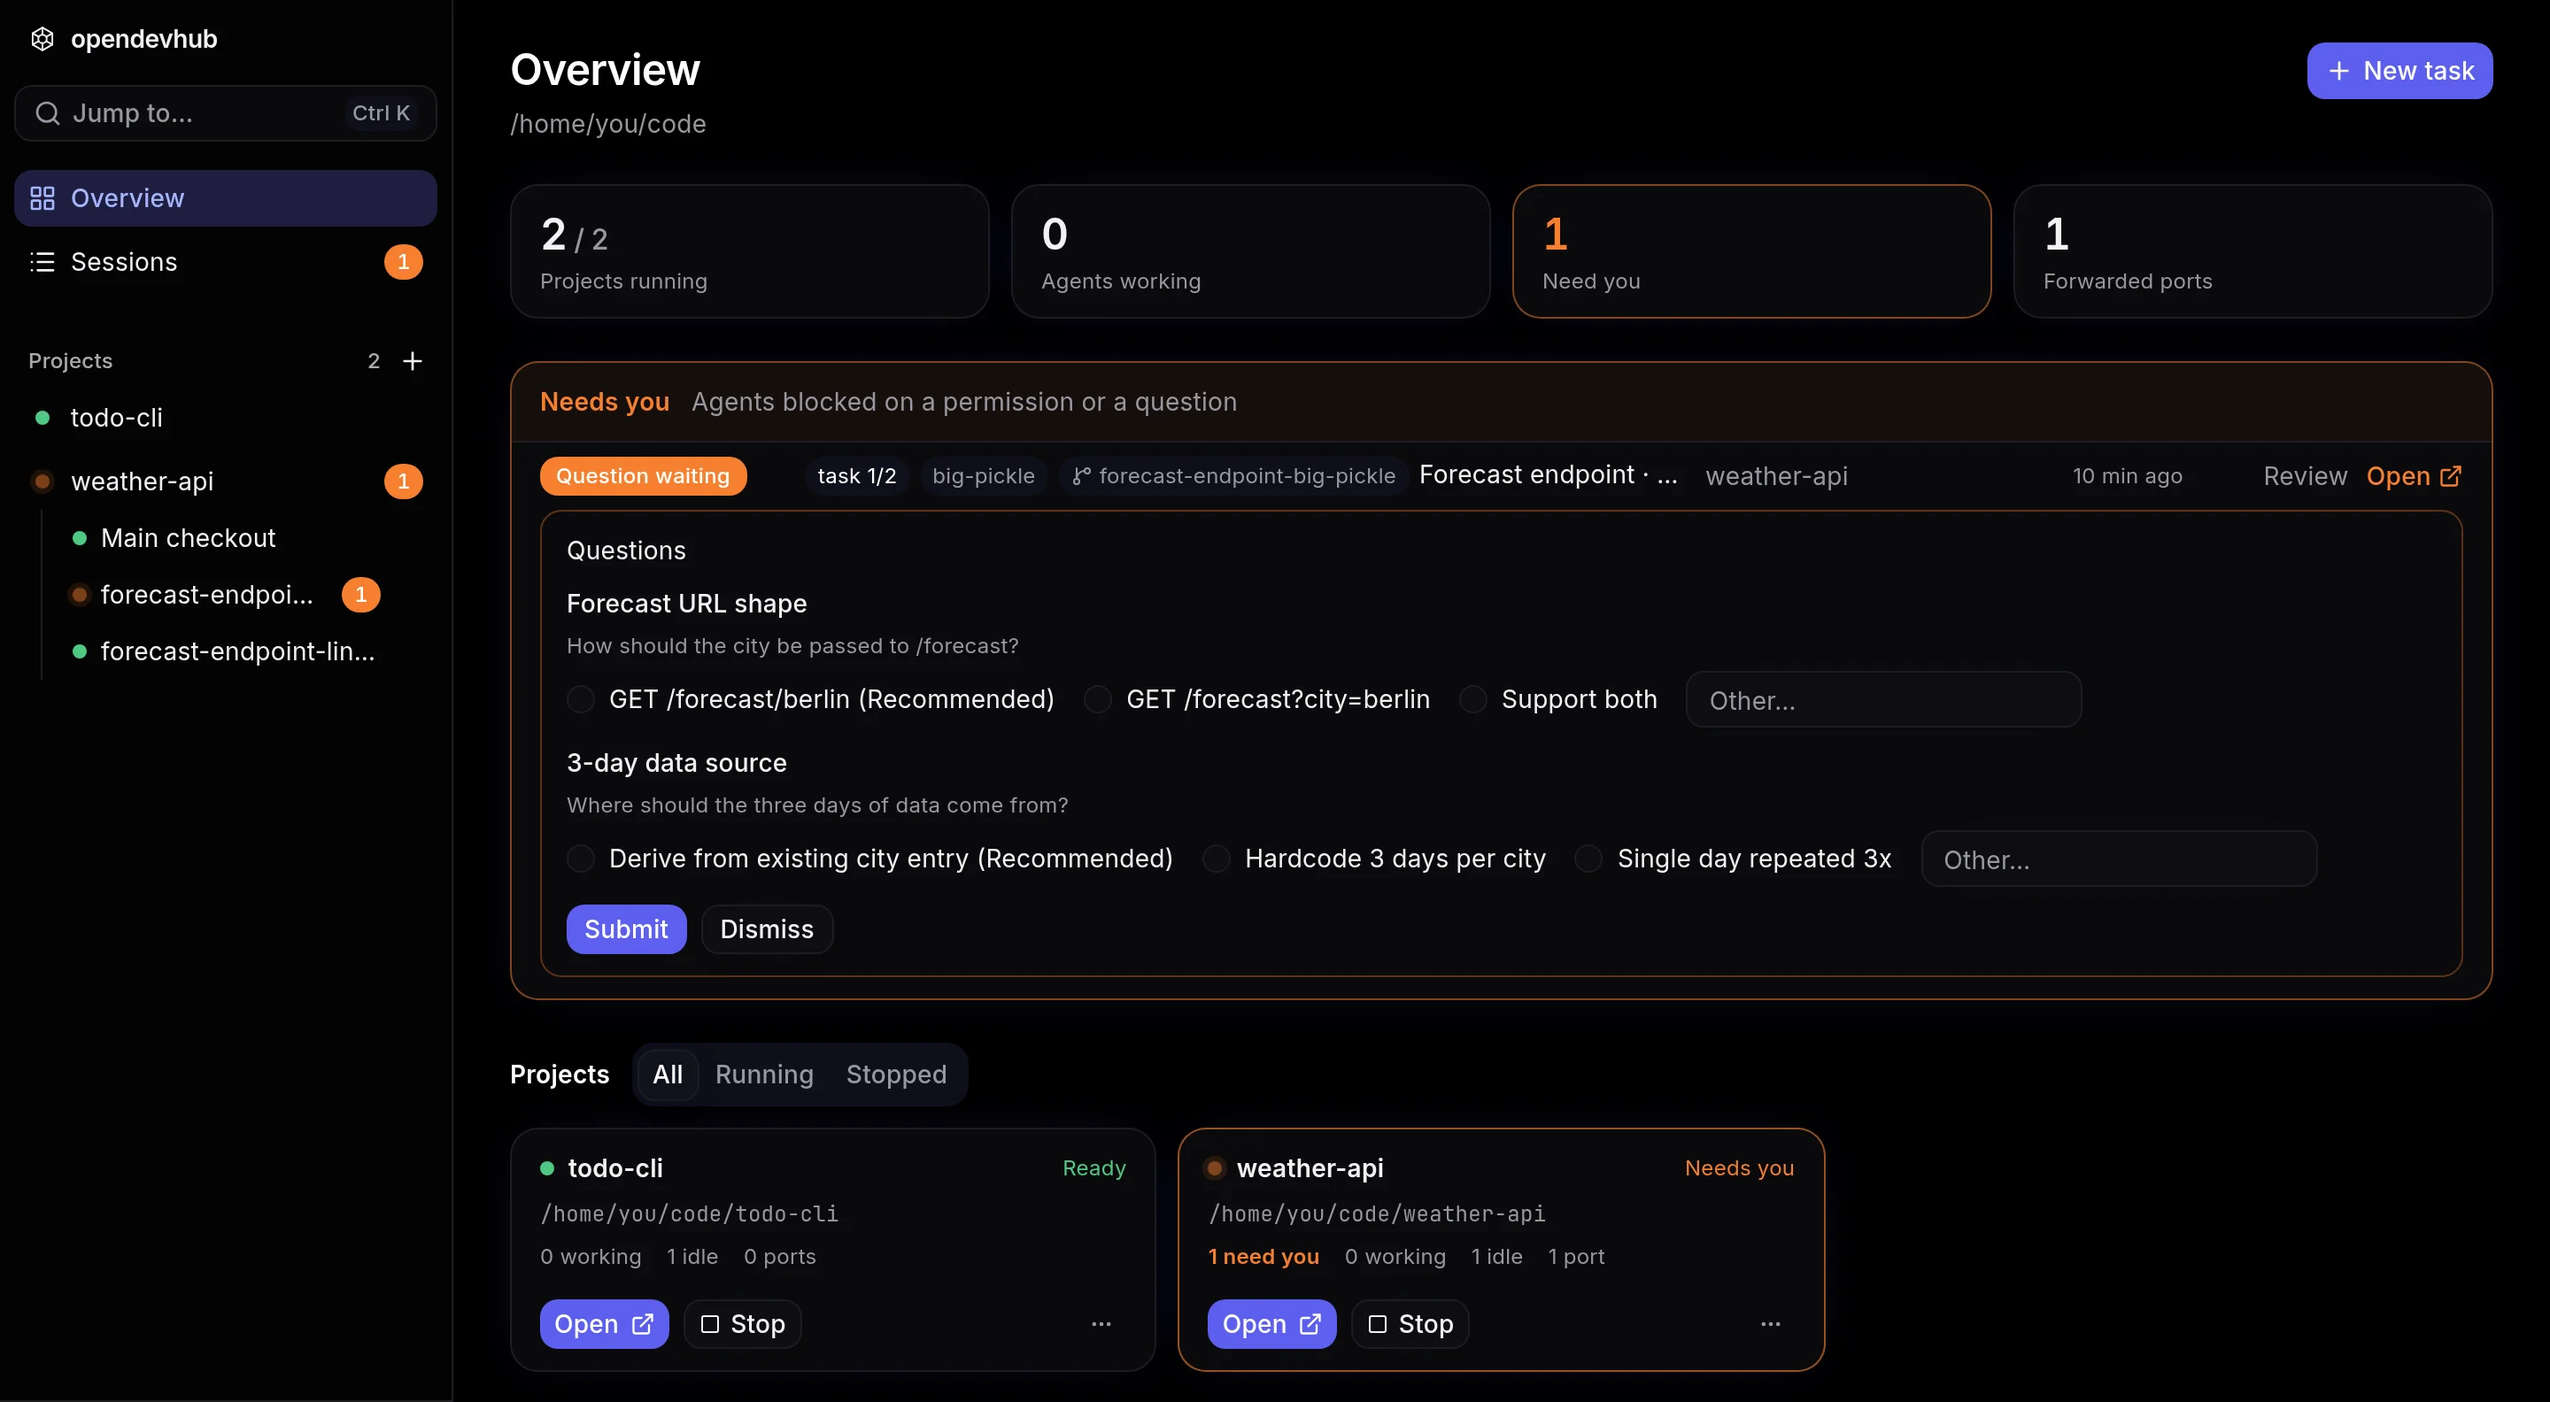
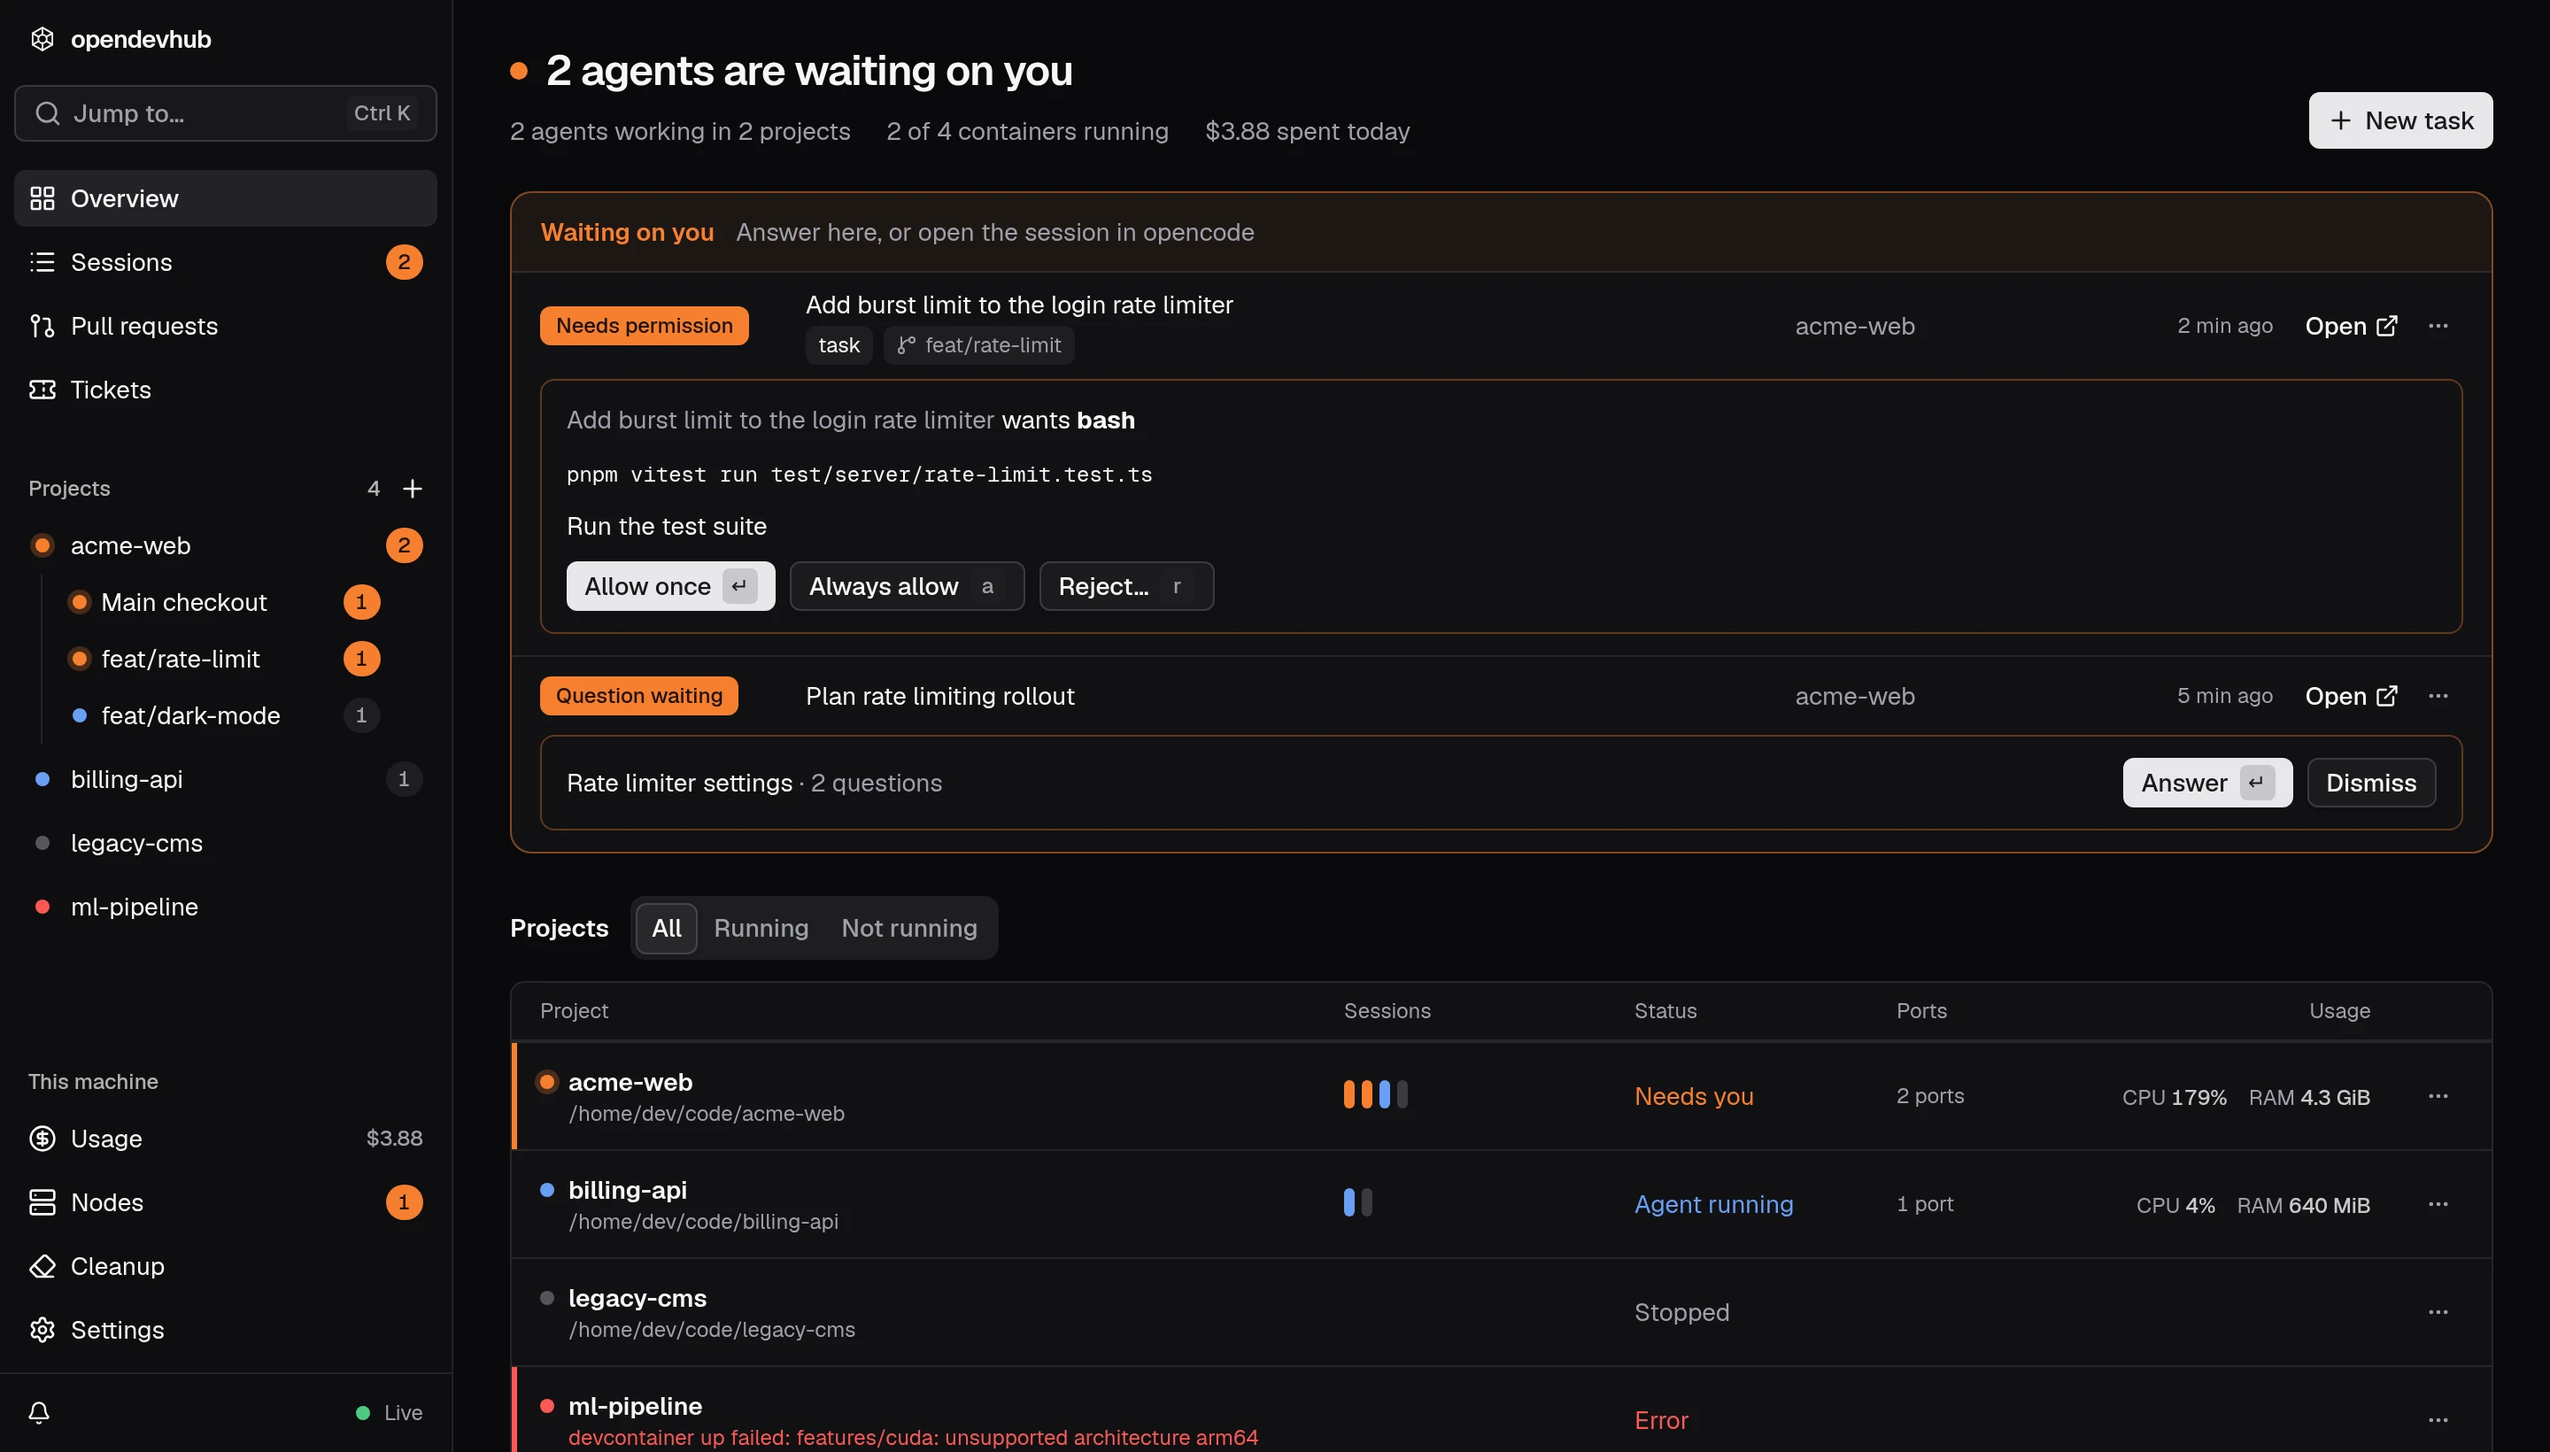
docs: render screenshots from Storybook stories
`pnpm screenshots` starts Storybook, captures each page or dialog story in
headless Chrome (dark, 2x) and writes webp files into the docs' images folder.
Redoes the existing shots from the mocked fixtures and adds Forgejo, Jira and
Nodes screenshots to their docs pages.

diff --git a/apps/opendevhub/scripts/screenshots.ts b/apps/opendevhub/scripts/screenshots.ts
@@ -1,0 +1,249 @@
+/**
+ * Renders the docs and README screenshots from Storybook stories, so they show the mocked fixtures instead of
+ * whatever happens to be on someone's machine.
+ *
+ *   pnpm screenshots                 starts Storybook on a spare port, captures every shot, stops it
+ *   pnpm screenshots overview review captures only the named shots
+ *
+ * STORYBOOK_URL reuses a Storybook that is already running; CHROME_PATH picks the Chromium to drive.
+ */
+import { spawn } from "node:child_process";
+import type { ChildProcess } from "node:child_process";
+import { writeFile } from "node:fs/promises";
+import { fileURLToPath } from "node:url";
+
+import { chromium } from "playwright-core";
+import type { Page } from "playwright-core";
+
+interface Shot {
+  /** File name under the docs' images folder, without the extension. */
+  name: string;
+  /** Storybook story id, e.g. "pages-overview--default". */
+  story: string;
+  /** Selector for content that only shows once the story's mocked data has loaded. */
+  ready: string;
+  /** Captures just this element instead of the viewport. */
+  clip?: string;
+  /** Viewport height for this shot, so a page is cut where its content ends. */
+  height?: number;
+  /** Interactions to run once the story is ready. */
+  prepare?: (page: Page) => Promise<void>;
+}
+
+const shots: Shot[] = [
+  {
+    name: "overview",
+    ready: "text=Waiting on you",
+    story: "pages-overview--default",
+  },
+  {
+    height: 980,
+    name: "worktrees",
+    ready: "text=New worktree",
+    story: "pages-project--overview",
+  },
+  {
+    height: 660,
+    name: "task-variants",
+    ready: "text=Compare variants",
+    story: "pages-project--task",
+  },
+  {
+    name: "review",
+    ready: "text=MAX_BURST",
+    story: "pages-checkout--review",
+  },
+  {
+    height: 548,
+    name: "forgejo-inbox",
+    ready: "text=Last refreshed",
+    story: "pages-forgejo--pull-requests",
+  },
+  {
+    height: 1000,
+    name: "forgejo-pull-request",
+    ready: "text=Base branch",
+    story: "pages-forgejo--pull-request",
+  },
+  {
+    height: 520,
+    name: "jira-tickets",
+    ready: "text=1–4 of 4",
+    story: "pages-jira--tickets",
+  },
+  {
+    height: 640,
+    name: "jira-ticket",
+    ready: "text=Acceptance criteria",
+    story: "pages-jira--ticket",
+  },
+  {
+    height: 580,
+    name: "nodes",
+    ready: "text=Connection timed out",
+    story: "pages-nodes--default",
+  },
+  {
+    clip: "[role=dialog]",
+    name: "new-task",
+    prepare: async (page) => {
+      await page
+        .locator("[role=dialog] textarea")
+        .fill(
+          "Add a burst limit to the login rate limiter: reject more than 20 requests a minute per IP.\n\nCover it with a test in test/server/rate-limit.test.ts."
+        );
+      await page
+        .getByRole("button", { name: "Compare with another model" })
+        .click();
+      await page.getByRole("combobox", { name: "Model 2" }).click();
+      await page.getByRole("option", { name: "GPT-6" }).click();
+    },
+    ready: "[role=dialog] textarea",
+    story: "components-newtaskdialog--default",
+  },
+  {
+    clip: "[role=dialog]",
+    name: "publish",
+    ready: "[role=dialog]",
+    story: "components-publishdialog--default",
+  },
+  {
+    clip: "[role=dialog]",
+    name: "add-project",
+    prepare: async (page) => {
+      await page
+        .getByRole("option", { name: /design-system/u })
+        .first()
+        .click();
+    },
+    ready: "[role=dialog] [role=option]",
+    story: "components-addprojectdialog--default",
+  },
+];
+
+const VIEWPORT = { height: 820, width: 1440 } as const;
+const PIXEL_RATIO = 2;
+const WEBP_QUALITY = 90;
+/** Time for fonts, mocked queries and enter animations to settle after the ready element shows up. */
+const SETTLE_MS = 1500;
+const STORYBOOK_PORT = 6116;
+const STORYBOOK_TIMEOUT_MS = 120_000;
+
+const imagesDir = fileURLToPath(
+  new URL("../../docs/content/docs/images/", import.meta.url)
+);
+
+const waitForServer = async (url: string): Promise<void> => {
+  const deadline = Date.now() + STORYBOOK_TIMEOUT_MS;
+  while (Date.now() < deadline) {
+    try {
+      const response = await fetch(`${url}/iframe.html`);
+      if (response.ok) {
+        return;
+      }
+    } catch {
+      // Not listening yet.
+    }
+    await new Promise((resolve) => {
+      setTimeout(resolve, 500);
+    });
+  }
+  throw new Error(`Storybook did not start at ${url}`);
+};
+
+const startStorybook = async (): Promise<{
+  url: string;
+  server?: ChildProcess;
+}> => {
+  if (process.env.STORYBOOK_URL) {
+    return { url: process.env.STORYBOOK_URL.replace(/\/$/u, "") };
+  }
+  const url = `http://localhost:${STORYBOOK_PORT}`;
+  const server = spawn(
+    "pnpm",
+    [
+      "exec",
+      "storybook",
+      "dev",
+      "-p",
+      String(STORYBOOK_PORT),
+      "--ci",
+      "--no-open",
+    ],
+    { stdio: "ignore" }
+  );
+  await waitForServer(url);
+  return { server, url };
+};
+
+const capture = async (page: Page, url: string, shot: Shot): Promise<void> => {
+  const viewport = { ...VIEWPORT, height: shot.height ?? VIEWPORT.height };
+  await page.setViewportSize(viewport);
+  await page.goto(`${url}/iframe.html?id=${shot.story}&viewMode=story`);
+  // Storybook marks the body once the story rendered; before that its own loading screen is up.
+  await page.locator("body.sb-show-main").waitFor({ state: "attached" });
+  await page.locator(shot.ready).first().waitFor();
+  await shot.prepare?.(page);
+  // No hover or focus states in the docs.
+  await page.mouse.move(0, 0);
+  await page.evaluate(() => {
+    if (document.activeElement instanceof HTMLElement) {
+      document.activeElement.blur();
+    }
+  });
+  await page.waitForTimeout(SETTLE_MS);
+
+  const box = shot.clip
+    ? await page.locator(shot.clip).first().boundingBox()
+    : { ...viewport, x: 0, y: 0 };
+  if (!box) {
+    throw new Error(`${shot.name}: ${shot.clip} is not visible`);
+  }
+
+  // Playwright only writes PNG and JPEG; Chromium itself can encode WebP.
+  const cdp = await page.context().newCDPSession(page);
+  const { data } = await cdp.send("Page.captureScreenshot", {
+    // The clip is in CSS pixels; its scale sets the output's pixel density.
+    clip: { ...box, scale: PIXEL_RATIO },
+    format: "webp",
+    quality: WEBP_QUALITY,
+  });
+  await cdp.detach();
+
+  const file = `${imagesDir}${shot.name}.webp`;
+  await writeFile(file, Buffer.from(data, "base64"));
+  console.log(`wrote ${file}`);
+};
+
+const main = async (): Promise<void> => {
+  const only = process.argv.slice(2);
+  const selected = only.length
+    ? shots.filter((shot) => only.includes(shot.name))
+    : shots;
+  if (selected.length === 0) {
+    throw new Error(
+      `No shot named ${only.join(", ")}; pick from ${shots.map((s) => s.name).join(", ")}`
+    );
+  }
+
+  const { server, url } = await startStorybook();
+  const browser = await chromium.launch({
+    executablePath: process.env.CHROME_PATH,
+  });
+  try {
+    const page = await browser.newPage({
+      colorScheme: "dark",
+      deviceScaleFactor: PIXEL_RATIO,
+      reducedMotion: "reduce",
+      viewport: VIEWPORT,
+    });
+    for (const shot of selected) {
+      await capture(page, url, shot);
+    }
+  } finally {
+    await browser.close();
+    server?.kill();
+  }
+};
+
+await main();

diff --git a/README.md b/README.md
@@ -10,7 +10,7 @@
 
 [Documentation](https://tim-richter.github.io/opendevhub/docs) · [Getting started](https://tim-richter.github.io/opendevhub/docs/getting-started) · [Contributing](CONTRIBUTING.md)
 
-<img src="apps/docs/content/docs/images/overview.webp" alt="The opendevhub Overview page, listing sessions that need you above the running projects" width="860">
+<img src="apps/docs/content/docs/images/overview.webp" alt="The opendevhub Overview page, listing sessions that need you above the projects" width="860">
 
 </div>
 
